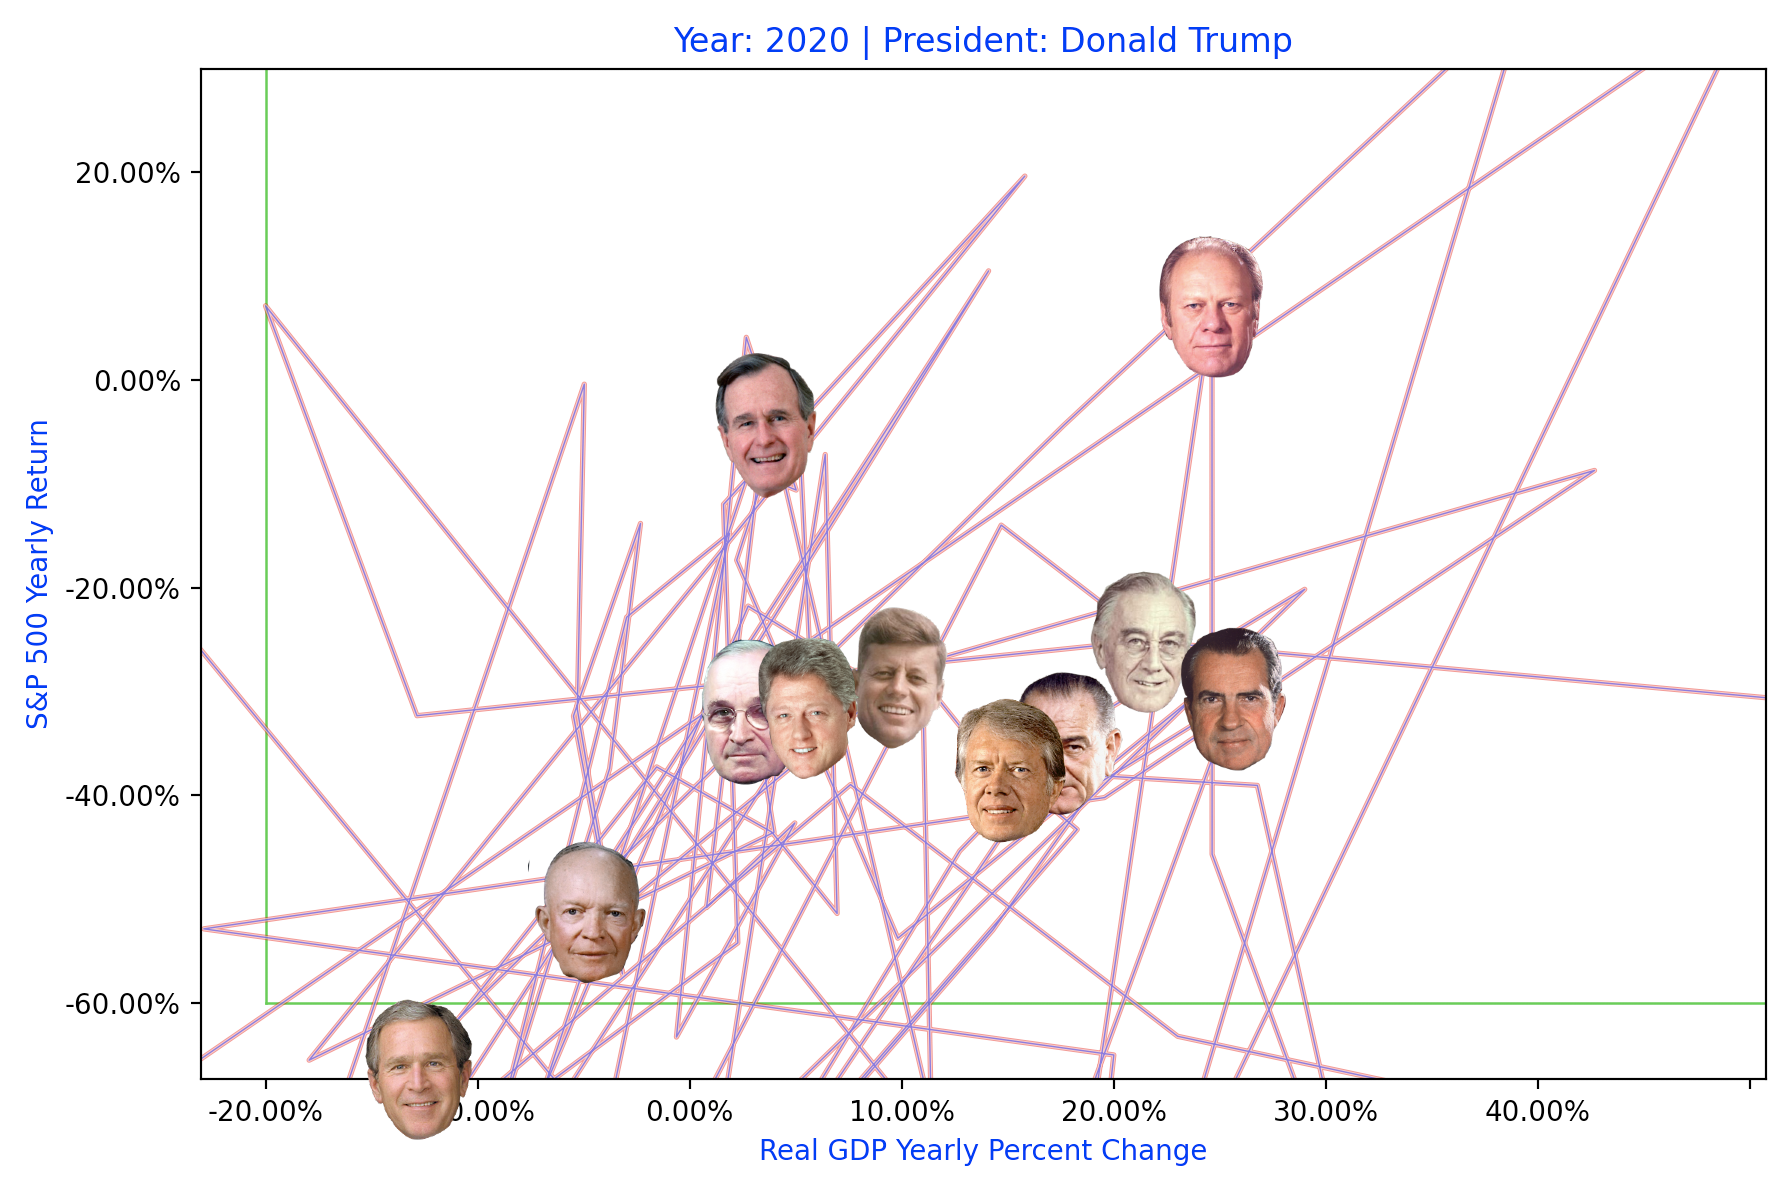
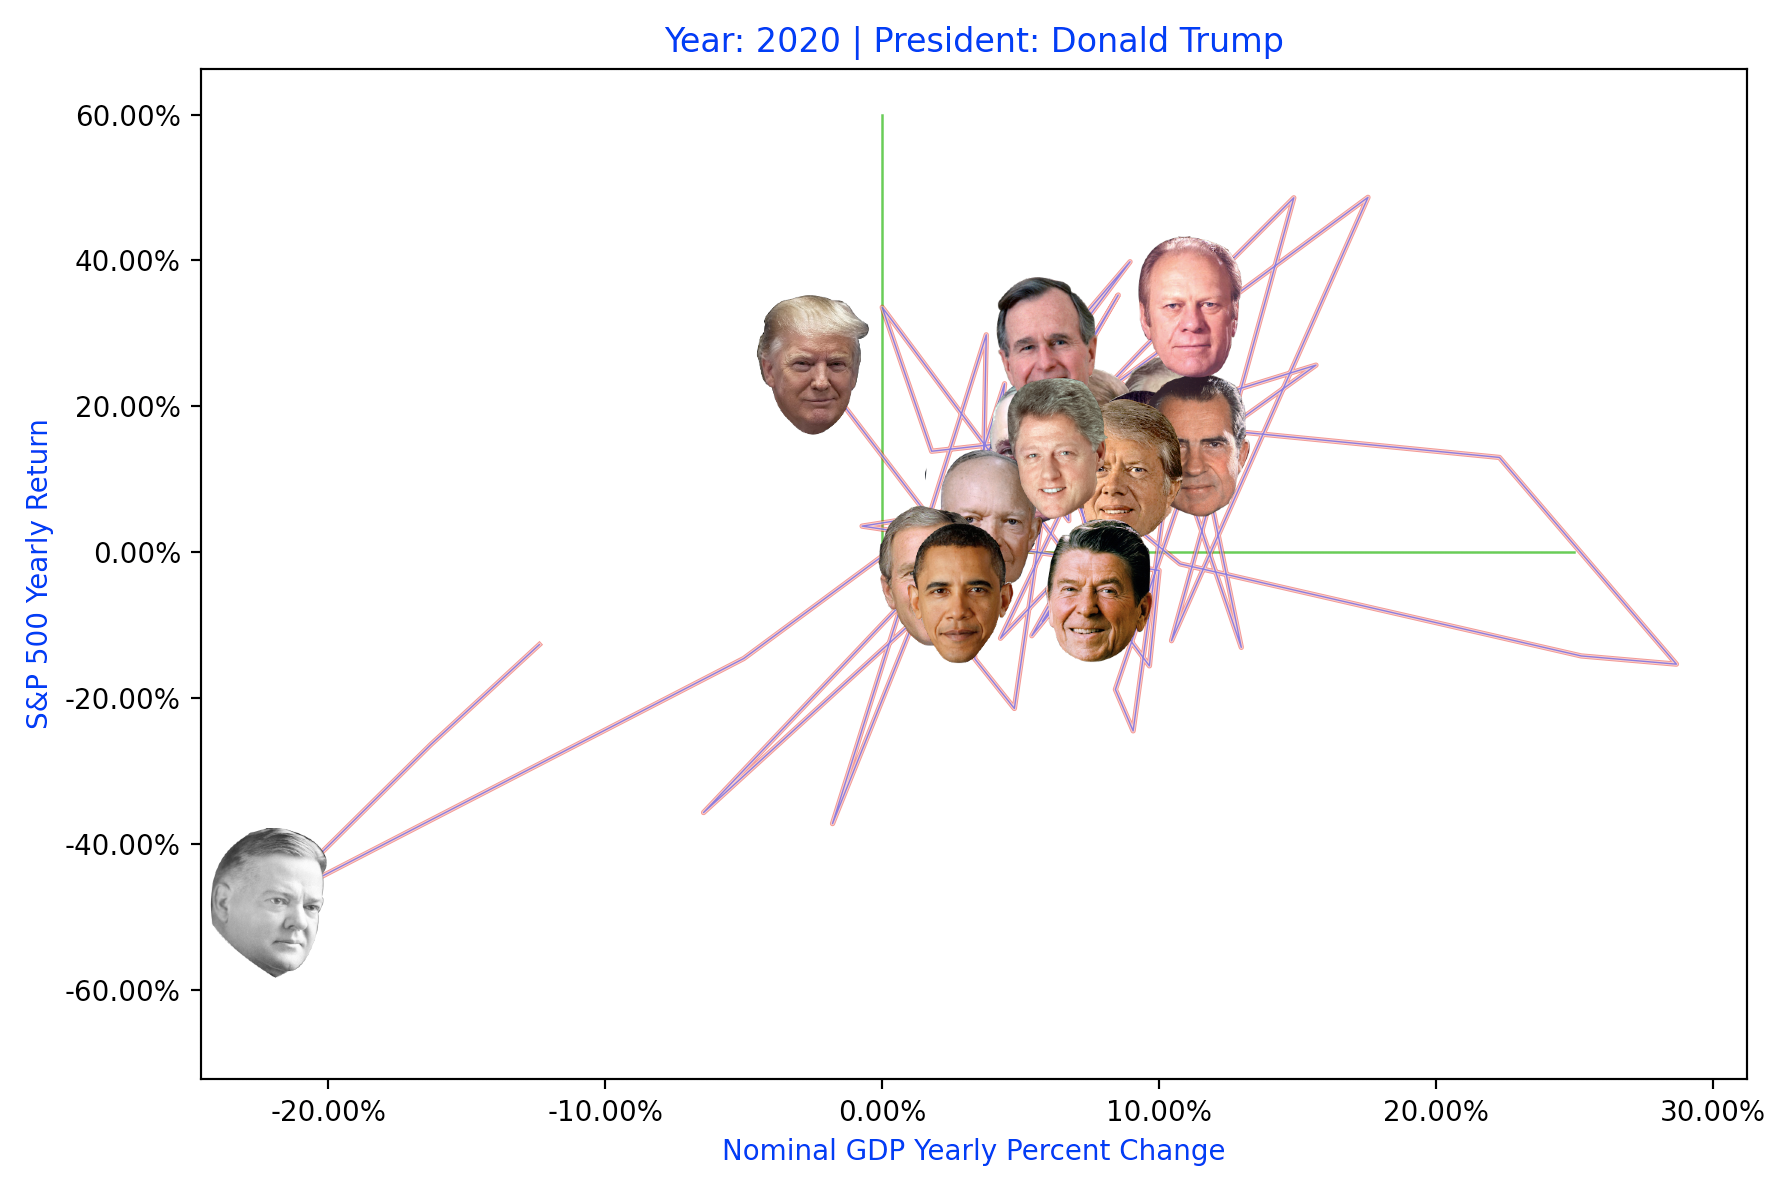
ps

diff --git a/analyze.py b/analyze.py
@@ -93,11 +93,11 @@ for y, r, rt in zip(years, rates, returns):
         for goo, gow in prez.items():
             ax.add_artist(gow)
 
-        ax.set_xlabel("Real GDP Yearly Percent Change", color='blue')
+        ax.set_xlabel("Nominal GDP Yearly Percent Change", color='blue')
         ax.set_ylabel("S&P 500 Yearly Return", color='blue')
         ax.set_xticklabels(['{0:.2f}%'.format(jo*100) for jo in ax.get_xticks()])
         ax.set_yticklabels(['{0:.2f}%'.format(jo*100) for jo in ax.get_yticks()])
-        plt.pause(0.1)
+        plt.pause(0.001)
 
 
 
